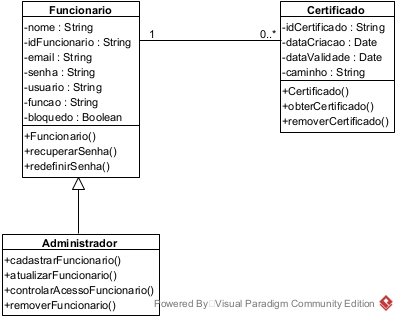
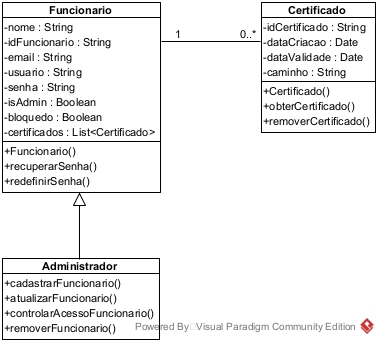
Adding Funcionario class

Changed region(s): [[0.0, 0.0, 1.0, 1.0], [0.4063, 0.5312, 0.4354, 0.5625]]

diff --git a/painel-vpn/src/main/java/model/entities/Funcionario.java b/painel-vpn/src/main/java/model/entities/Funcionario.java
@@ -2,45 +2,147 @@ package model.entities;
 
 import java.util.List;
 
-import enums.Enum_StatusFuncionario;
 import jakarta.persistence.Column;
 import jakarta.persistence.Entity;
+import jakarta.persistence.EnumType;
+import jakarta.persistence.Enumerated;
 import jakarta.persistence.GeneratedValue;
 import jakarta.persistence.GenerationType;
 import jakarta.persistence.Id;
-import lombok.Data;
+import jakarta.persistence.OneToMany;
+import jakarta.persistence.Table;
+import jakarta.validation.constraints.Email;
+import jakarta.validation.constraints.NotBlank;
+
+import enums.Enum_StatusFuncionario;
 
 @Entity
-@Data
+@Table(name = "funcionarios")
 public class Funcionario {
-	
+
 	@Id
-	@GeneratedValue(strategy = GenerationType.IDENTITY)
-	private Long id;
-	
-	@Column(nullable = false, unique=true, length = 30)
+	@GeneratedValue(strategy = GenerationType.UUID)
+	private String idFuncionario;
+
+	@NotBlank(message = "O nome é obrigatório")
+	@Column(nullable = false)
+	private String nome;
+
+	@Email(message = "Email inválido")
+	@NotBlank(message = "O email é obrigatório")
+	@Column(unique = true, nullable = false)
+	private String email;
+
+	@NotBlank(message = "O usuário é obrigatório")
+	@Column(unique = true, nullable = false)
 	private String usuario;
 	
+	@NotBlank(message = "A senha é obrigatória")
 	@Column(nullable = false)
 	private String senha;
 	
-	@Column(nullable = false, unique = true)
-	private String email;
-	
 	@Column(nullable = false)
-	private Enum_StatusFuncionario status;
-	
+	private boolean isAdmin;
+
 	@Column(nullable = false)
 	private int tentativasLogin;
 	
+	@Enumerated(EnumType.STRING)
 	@Column(nullable = false)
-	private boolean isAdmin;
+	private Enum_StatusFuncionario status;
 	
-	private List<Certificado> certificado;
+	@OneToMany(mappedBy = "funcionario")
+	private List<Certificado> certificados;
 	
 	public Funcionario() {
-		super();
+		this.tentativasLogin = 0;
+		this.status = Enum_StatusFuncionario.ATIVO;
+		this.isAdmin = false;
+	}
+
+	// Getters e Setters
+	public String getIdFuncionario() {
+		return idFuncionario;
+	}
+
+	public void setIdFuncionario(String idFuncionario) {
+		this.idFuncionario = idFuncionario;
+	}
+
+	public String getNome() {
+		return nome;
+	}
+
+	public void setNome(String nome) {
+		this.nome = nome;
+	}
+
+	public String getEmail() {
+		return email;
+	}
+
+	public void setEmail(String email) {
+		this.email = email;
+	}
+
+	public String getUsuario() {
+		return usuario;
+	}
+
+	public void setUsuario(String usuario) {
+		this.usuario = usuario;
+	}
+
+	public String getSenha() {
+		return senha;
+	}
+
+	public void setSenha(String senha) {
+		this.senha = senha;
+	}
+
+	public boolean isAdmin() {
+		return isAdmin;
+	}
+
+	public void setAdmin(boolean isAdmin) {
+		this.isAdmin = isAdmin;
+	}
+
+	public int getTentativasLogin() {
+		return tentativasLogin;
+	}
+
+	public void setTentativasLogin(int tentativasLogin) {
+		this.tentativasLogin = tentativasLogin;
+	}
+
+	public Enum_StatusFuncionario getStatus() {
+		return status;
+	}
+
+	public void setStatus(Enum_StatusFuncionario status) {
+		this.status = status;
+	}
+
+	public List<Certificado> getCertificados() {
+		return certificados;
+	}
+
+	public void setCertificados(List<Certificado> certificados) {
+		this.certificados = certificados;
+	}
+
+	// Métodos de negócio
+	public void incrementarTentativasLogin() {
+		this.tentativasLogin++;
+		if (this.tentativasLogin >= 3) {
+			this.status = Enum_StatusFuncionario.BLOQUEADO;
+		}
+	}
+
+	public void resetarTentativasLogin() {
+		this.tentativasLogin = 0;
 	}
 	
-
 }
